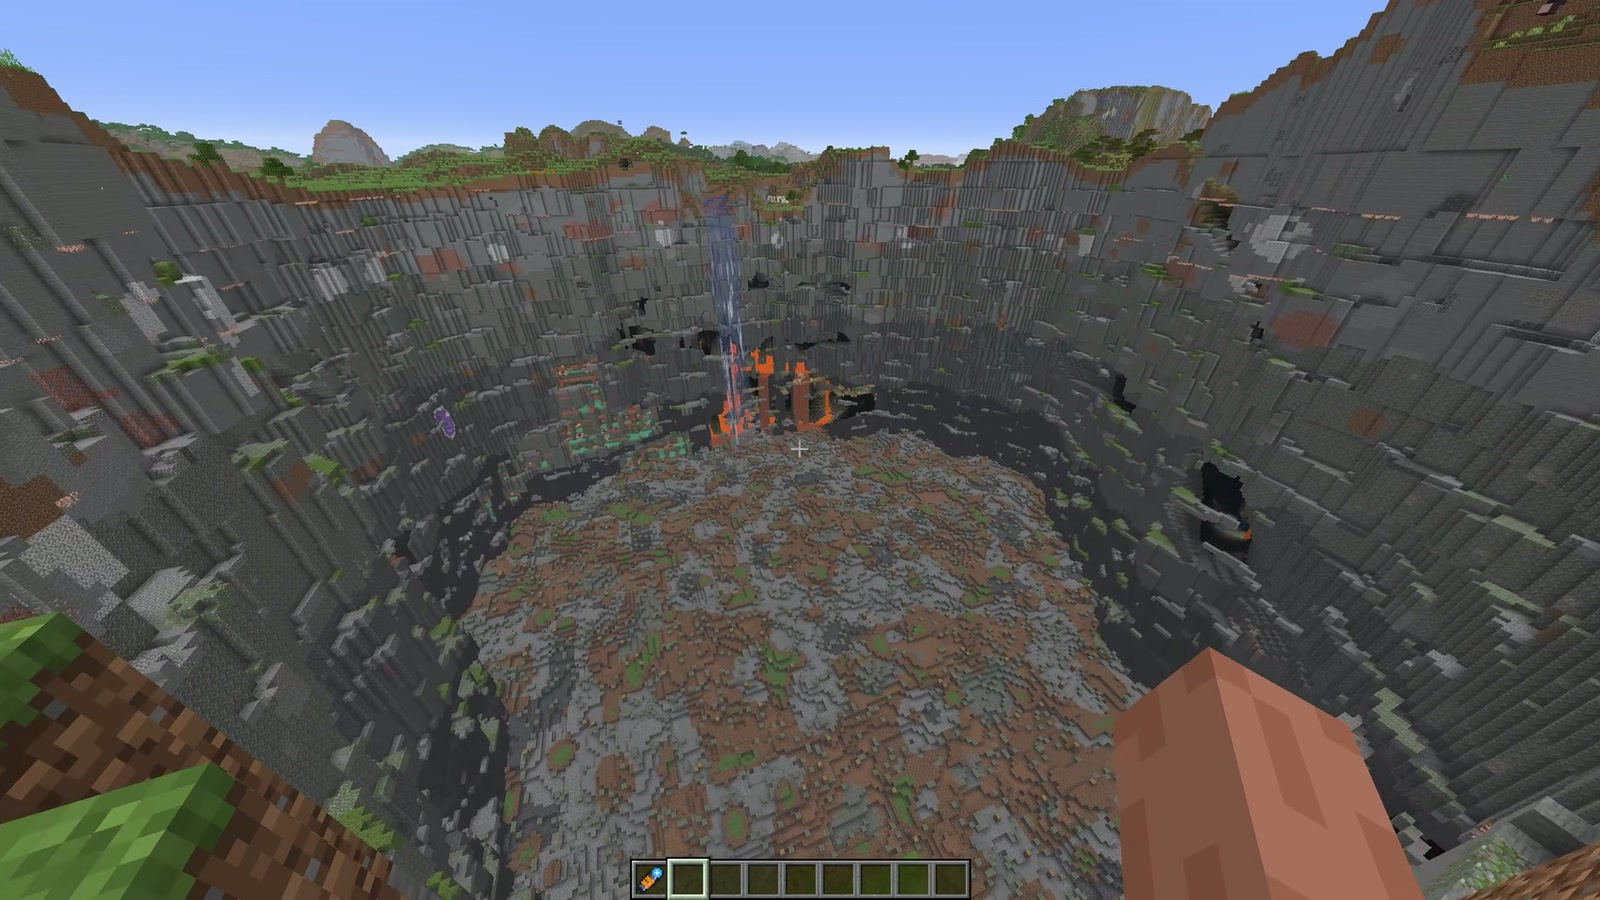
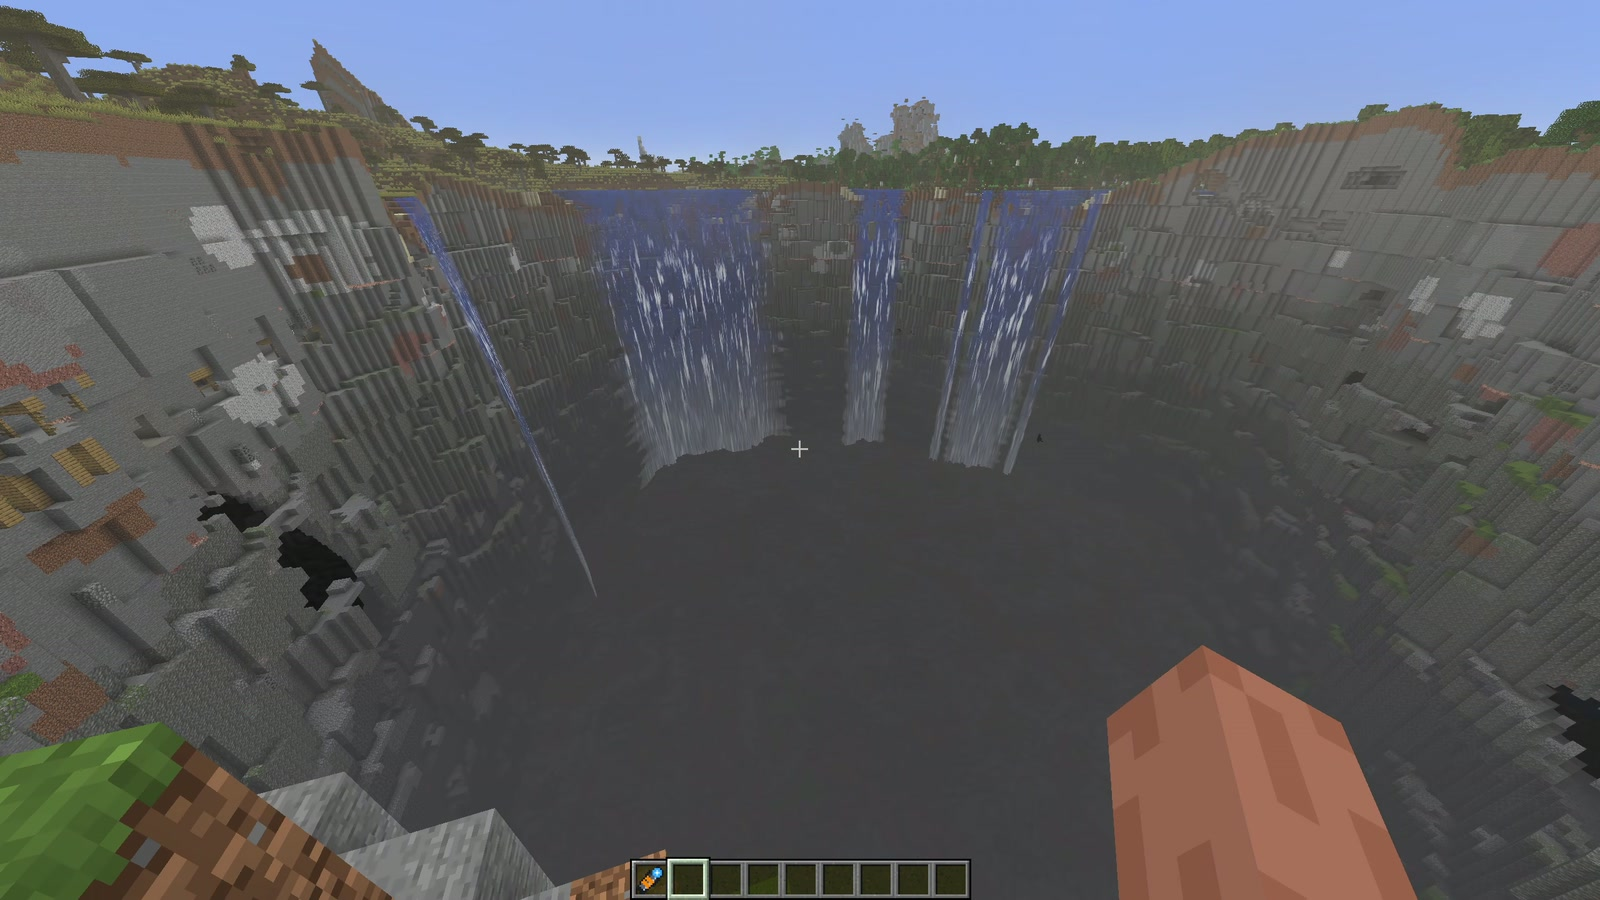
Sinkhole: the aftermath still shows its waterfalls

diff --git a/README.md b/README.md
@@ -118,7 +118,7 @@ Crystal Bloom and the Sinkhole reach 1000. [How it works](docs/HOW-IT-WORKS.md#t
 
 | Sinkhole | The collapse | The pit | What it leaves |
 |---|---|---|---|
-| ![Cracks racing out over the land from the target](docs/25-sinkhole-cracks.jpg) | ![The land caving in, dust boiling up out of the collapse](docs/26-sinkhole-collapse.jpg) | ![The dark pit opening as the dust settles](docs/27-sinkhole-pit.jpg) | ![The finished pit from its rim, banded walls down to bedrock](docs/28-sinkhole-aftermath.jpg) |
+| ![Cracks racing out over the land from the target](docs/25-sinkhole-cracks.jpg) | ![The land caving in, dust boiling up out of the collapse](docs/26-sinkhole-collapse.jpg) | ![The dark pit opening as the dust settles](docs/27-sinkhole-pit.jpg) | ![The finished pit, waterfalls pouring over its rim into the dark](docs/28-sinkhole-aftermath.jpg) |
 
 ## Getting started
 

diff --git a/docs/releases/v0.5.4.md b/docs/releases/v0.5.4.md
@@ -17,7 +17,7 @@ A ninth laser: the **Sinkhole**. Nothing comes from the sky. The land cracks, gi
 </p>
 
 <p align="center">
-  <img alt="The finished pit from its rim, banded walls down to bedrock" width="720" src="https://github.com/Stink-O/orbital-laser/raw/main/docs/28-sinkhole-aftermath.jpg">
+  <img alt="The finished pit, waterfalls pouring over its rim into the dark" width="720" src="https://github.com/Stink-O/orbital-laser/raw/main/docs/28-sinkhole-aftermath.jpg">
 </p>
 
 ## New
